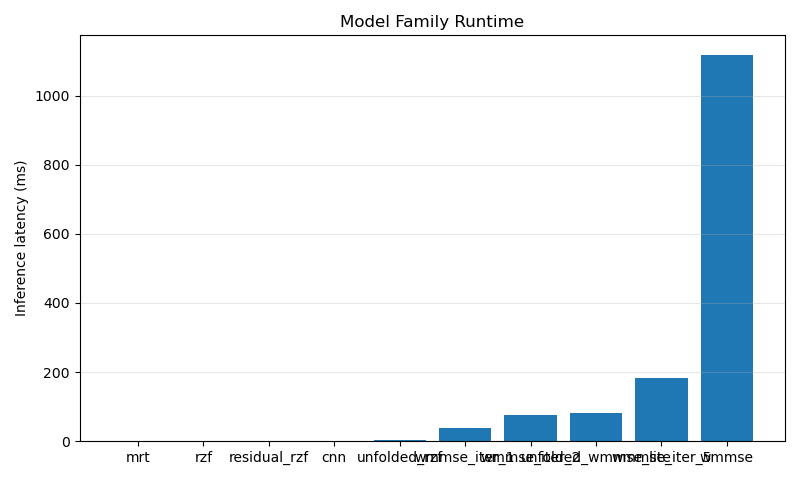
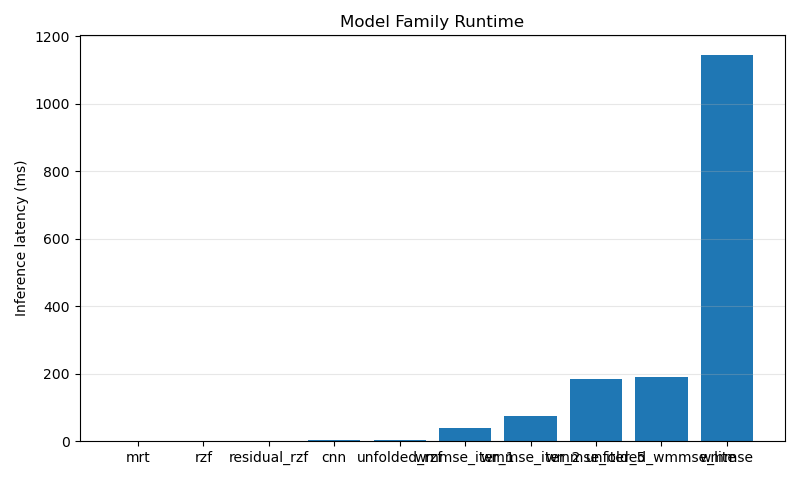
chore: sync final latency artifacts

diff --git a/README.md b/README.md
@@ -579,12 +579,12 @@ Under the standardized protocol, the best current `unfolded_wmmse_lite` variant 
 Current `latency_v2` values for the user-requested method set are:
 
 - `mrt = 0.234 ms`
-- `rzf = 0.562 ms`
-- `wmmse_iter_1 = 55.85 ms`
-- `wmmse_iter_2 = 109.08 ms`
-- `unfolded_wmmse_lite = 118.86 ms`
-- `wmmse_iter_5 = 280.20 ms`
-- `wmmse = 1688.79 ms`
+- `rzf = 0.554 ms`
+- `wmmse_iter_1 = 37.49 ms`
+- `wmmse_iter_2 = 73.91 ms`
+- `unfolded_wmmse_lite = 190.24 ms`
+- `wmmse_iter_5 = 185.46 ms`
+- `wmmse = 1146.11 ms`
 
 The quick sweep shows:
 
@@ -592,7 +592,7 @@ The quick sweep shows:
 - `mean_se = 5.8163`
 - `gap_to_wmmse = -0.43%`
 - `gap_to_wmmse_iter_5 = +0.0055%`
-- sweep-local latency = `189.21 ms`
+- unified latency-table inference = `190.24 ms`
 
 This means the current best learned WMMSE-lite variant is best interpreted as an SE-matching structured approximation to `wmmse_iter_5`, not as a lower-latency replacement.
 

diff --git a/reports/experiment_report.md b/reports/experiment_report.md
@@ -321,12 +321,12 @@ Under this unified protocol, the main synthetic latency points are:
 The refreshed `latency_v2` run requested in the current phase reports:
 
 - `mrt = 0.234 ms`
-- `rzf = 0.562 ms`
-- `wmmse_iter_1 = 55.85 ms`
-- `wmmse_iter_2 = 109.08 ms`
-- `unfolded_wmmse_lite = 118.86 ms`
-- `wmmse_iter_5 = 280.20 ms`
-- `wmmse = 1688.79 ms`
+- `rzf = 0.554 ms`
+- `wmmse_iter_1 = 37.49 ms`
+- `wmmse_iter_2 = 73.91 ms`
+- `unfolded_wmmse_lite = 190.24 ms`
+- `wmmse_iter_5 = 185.46 ms`
+- `wmmse = 1146.11 ms`
 
 The current quick ablation sweep over `unfolded_wmmse_lite` variants identifies the best synthetic configuration as:
 
@@ -337,7 +337,7 @@ The current quick ablation sweep over `unfolded_wmmse_lite` variants identifies 
 - `mean_se = 5.8163`
 - `gap_to_wmmse = -0.43%`
 - `gap_to_wmmse_iter_5 = +0.0055%`
-- sweep-local latency = `189.21 ms`
+- unified latency-table inference = `190.24 ms`
 
 So the current best unfolded-WMMSE-lite variant practically matches the `wmmse_iter_5` reference in SE, but it does not beat `wmmse_iter_5` on latency.
 

diff --git a/outputs/artifact_manifest.md b/outputs/artifact_manifest.md
@@ -1,6 +1,6 @@
 # Artifact Manifest
 
-- commit: `904d94dffa7c54d7499e8457398e1909b2aeff09`
+- commit: `7da922dce19763bfecced4eaa8c6c60a6a1dc731`
 
 | path | exists | type | command |
 | --- | --- | --- | --- |